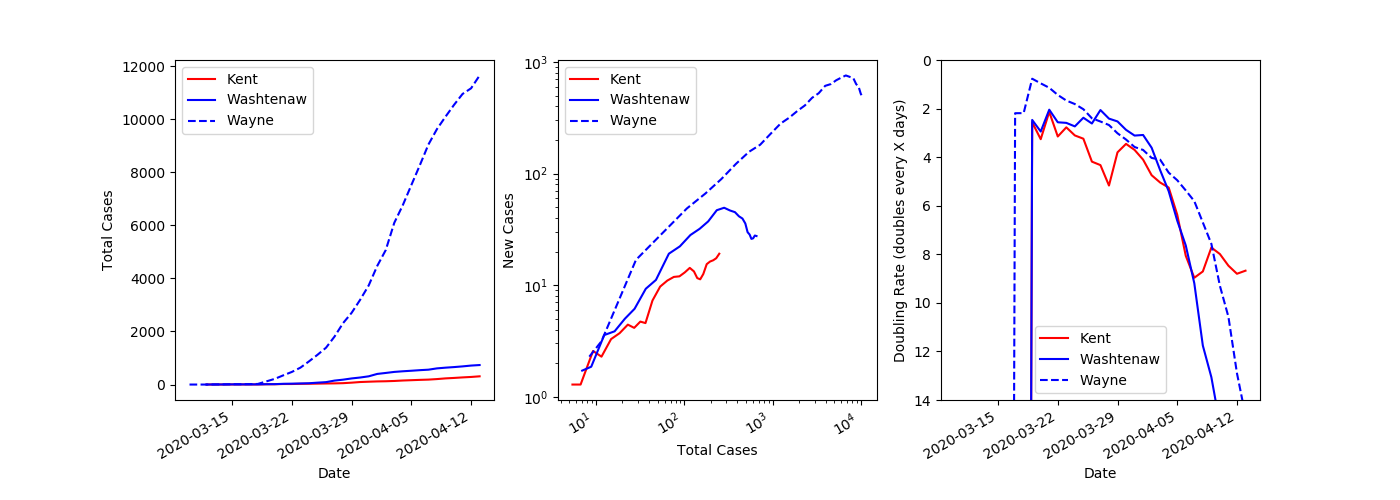
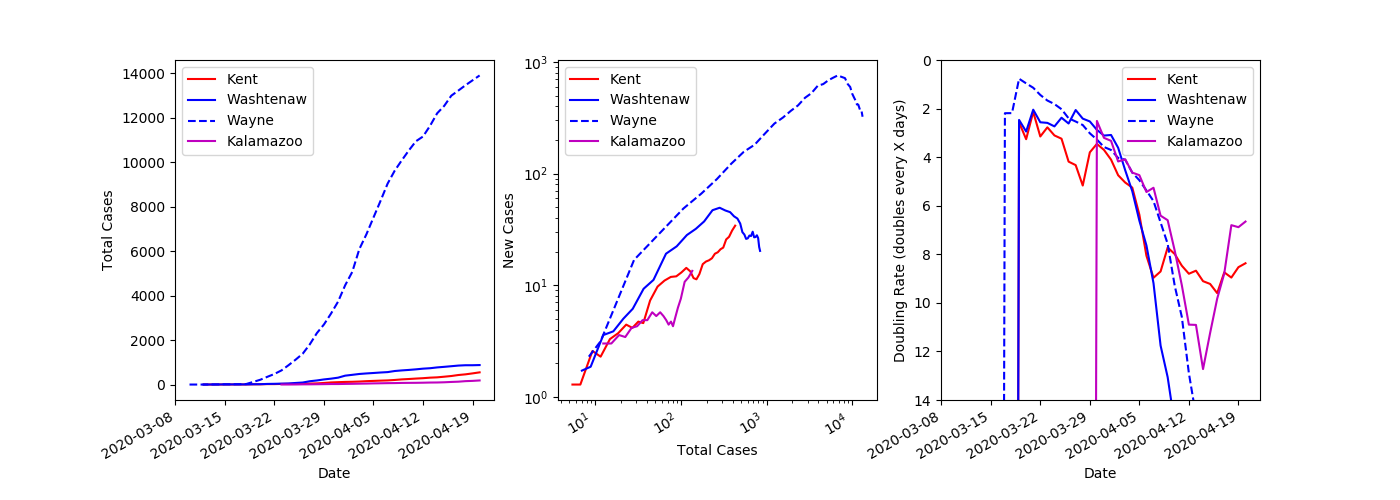
Updated to 4/22/2020

diff --git a/county_watch.py b/county_watch.py
@@ -20,8 +20,8 @@ class County():
         # Parse all data and trim for just this county
         self.all_data = pd.read_csv('covid-19-data/us-counties.csv')
         self.data = \
-            self.all_data[(self.all_data['county']==county) & \
-                          (self.all_data['state']==state)]
+            self.all_data[(self.all_data['county'] == county) &
+                          (self.all_data['state'] == state)]
         self.data['new_cases'] = self.data['cases'].diff()
 
         # Get rolling average columns.
@@ -42,14 +42,15 @@ class County():
                 slope_list.append(0)
 
         slope_list = np.array(slope_list)
-        slope_list[slope_list==0] = 100
+        slope_list[slope_list == 0] = 100
         self.data['doubling_rate'] = slope_list
+
 
 def plot_time_series(filename, counties):
 
     fig, ax = plt.subplots(figsize=(14, 5), nrows=1, ncols=3)
     date_fmt = mdates.DateFormatter('%Y-%m-%d')
-    locator= mdates.WeekdayLocator(byweekday=SU, interval=1)
+    locator = mdates.WeekdayLocator(byweekday=SU, interval=1)
 
     # Plot the time series data.
     for county in counties:
@@ -59,9 +60,9 @@ def plot_time_series(filename, counties):
         ax[0].plot(xaxis, county.data['cases'], county.style,
                    label=county.county)
         ax[1].loglog(county.data['roll_cases'], county.data['roll_new_cases'],
-                county.style, label=county.county)
+                     county.style, label=county.county)
         ax[2].plot(xaxis, county.data['doubling_rate'],
-                county.style, label=county.county)
+                   county.style, label=county.county)
 
     ax[0].set_xlabel('Date')
     ax[0].set_ylabel('Total Cases')
@@ -91,7 +92,7 @@ def main():
     wash = County('Washtenaw', 'Michigan', 'b-')
     wayne = County('Wayne', 'Michigan', 'b--')
     kzoo = County('Kalamazoo', 'Michigan', 'm-')
-    plot_time_series('Images/covid_michigan.png', [kent, wash, wayne])
+    plot_time_series('Images/covid_michigan.png', [kent, wash, wayne, kzoo])
 
     sch = County('Schenectady', 'New York', 'k-')
     alb = County('Albany', 'New York', 'k--')
